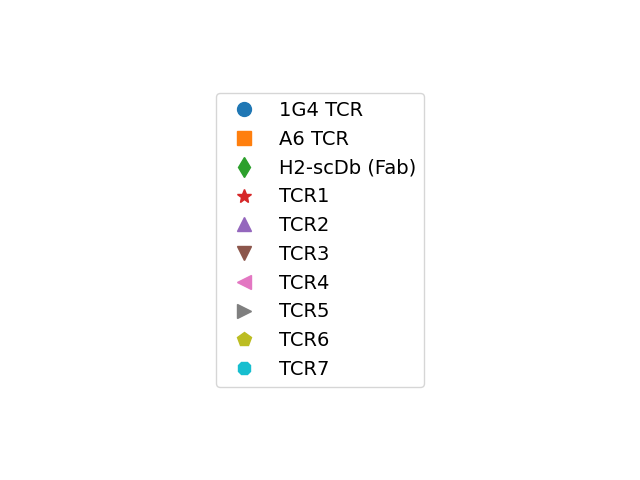
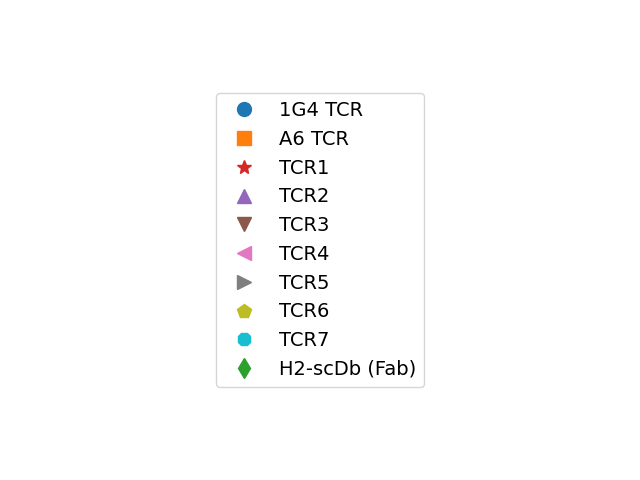
changed legend

diff --git a/mutation_effects/src/proteinmpnn_scoring_methods_comparison.py b/mutation_effects/src/proteinmpnn_scoring_methods_comparison.py
@@ -337,7 +337,7 @@ for proteinmpnn_model_version in PROTEINMPNN_MODEL_GROUPS:
 import matplotlib.pyplot as plt
 import matplotlib.lines as mlines
 legend_handles = []
-for system in SYSTEM_TO_COLOR:
+for system in SYSTEMS:
     handle = mlines.Line2D([], [], 
                            color=SYSTEM_TO_COLOR[system], 
                            marker=SYSTEM_TO_MARKER[system], 
